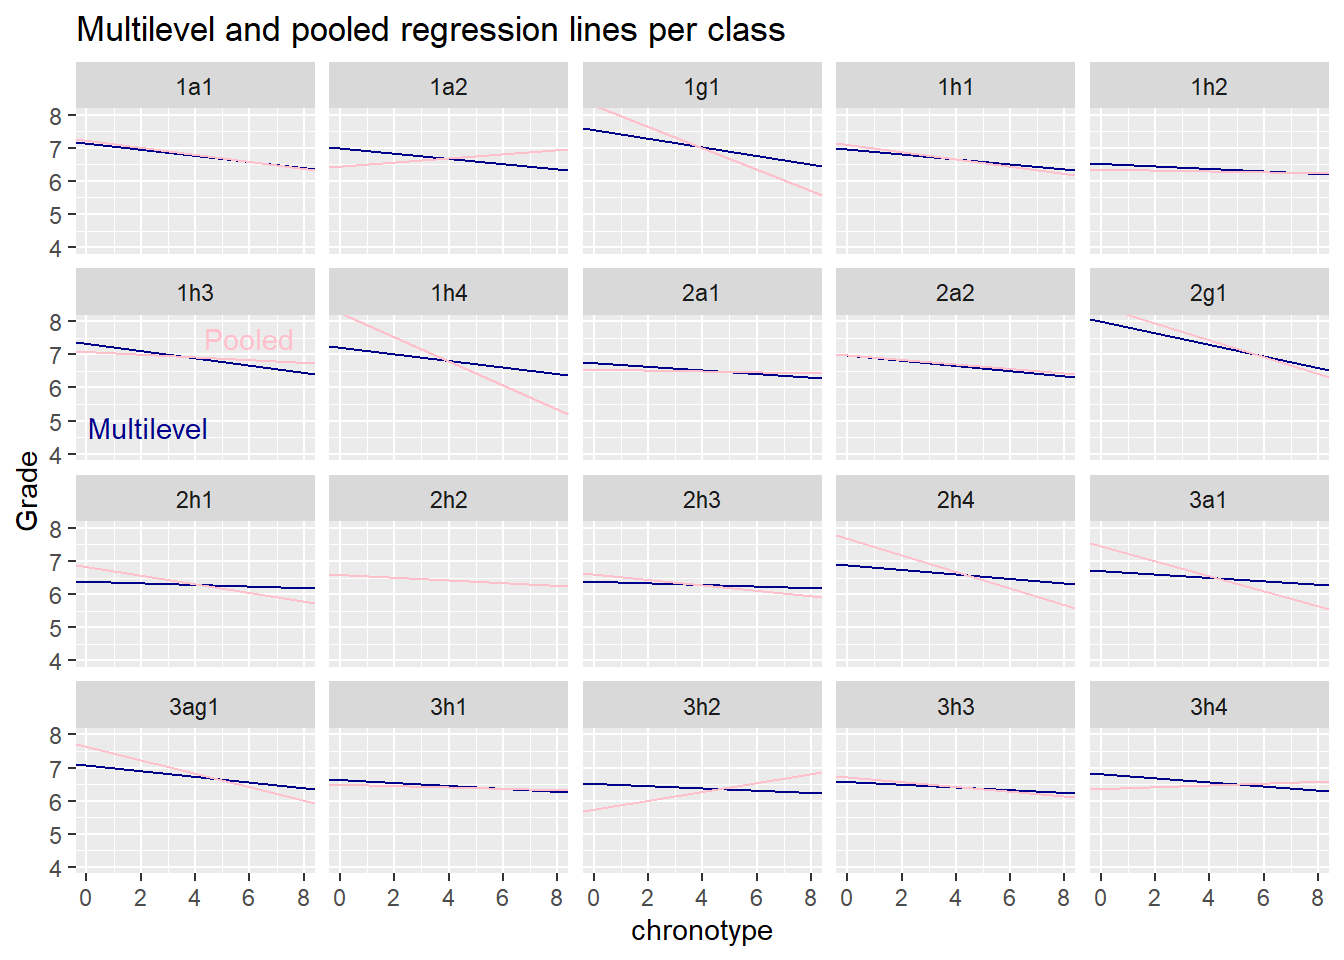
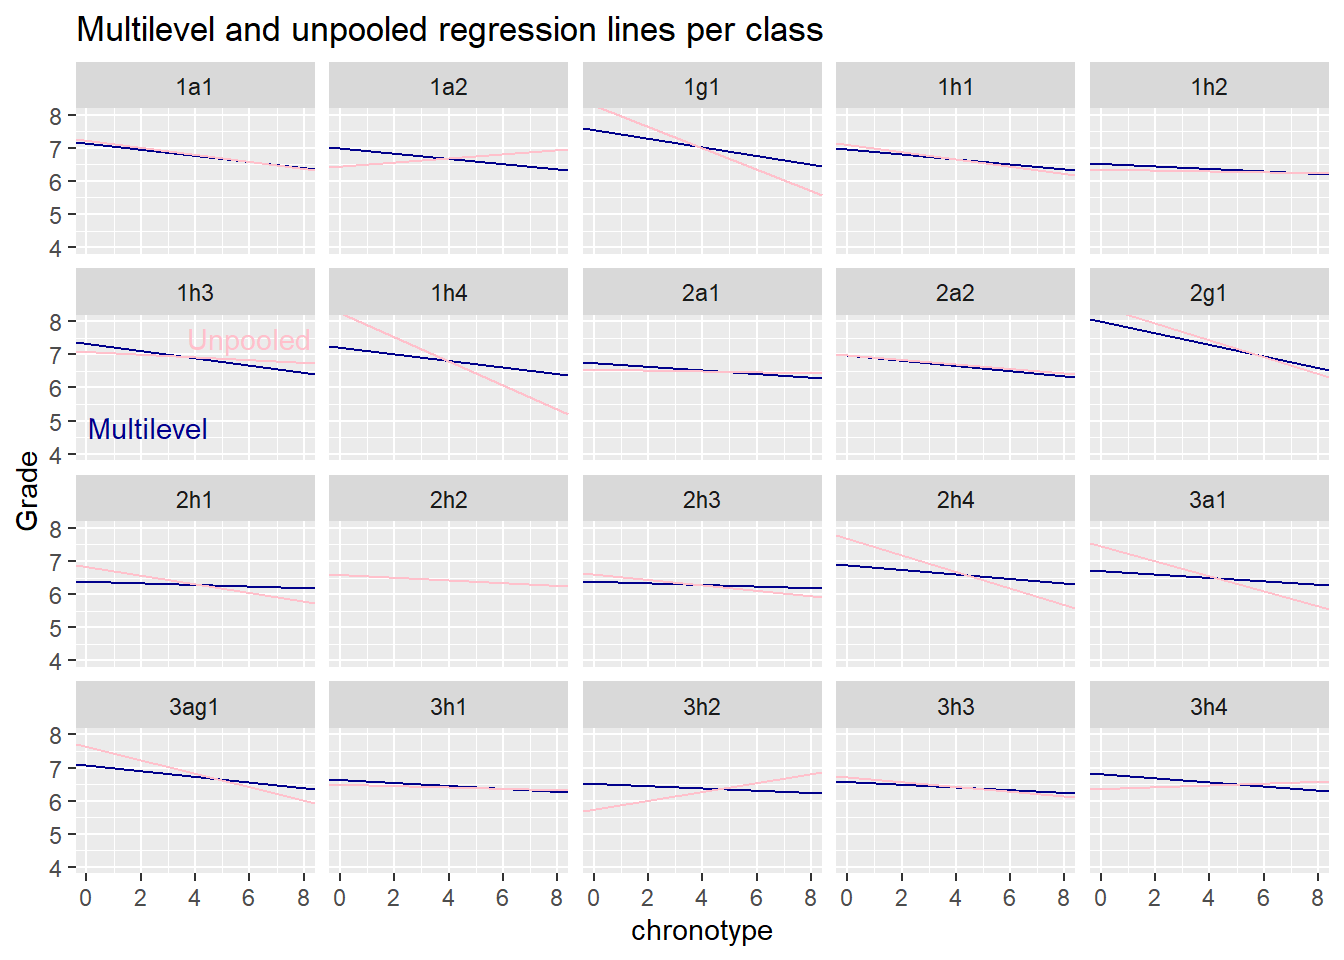
Chronotype # 3 Corrected Pooled -> unpooled

Changed region(s): [[0.2188, 0.0, 0.625, 0.0625], [0.125, 0.3438, 0.25, 0.375]]

diff --git a/content/post/2021-06-07-do-schools-discriminate-against-night-owls-inference-on-clustered-data-part-3/index.en.html b/content/post/2021-06-07-do-schools-discriminate-against-night-owls-inference-on-clustered-data-part-3/index.en.html
@@ -505,18 +505,18 @@ p1</code></pre>
 p2</code></pre>
 <p><img src="{{< blogdown/postref >}}index.en_files/figure-html/unnamed-chunk-24-1.png" width="672" /></p>
 <p>But the instructive point of the first, faceted diagram is that all the slopes are significantly different from zero (since they are black) even though they are hugging the horizontal line at 0. In other words, we have so many observations that the confidence interval is tiny, so as to be invisible.</p>
-<p>This raises the question of how much shrinkage takes place in the multilevel model. Multilevel regression tries to find the sweet spot between pooled and unpooled regression. If there are very few observations per group, then the estimates inside the groups will be very similar to the estimates for the entire population. On the other hand, if there are a lot of observations in the groups, then the grand parameters will have a hard time pulling group parameters towards them. The latter may be the case here. Do does multilevel regression even make a difference here, given the huge number of observations?</p>
+<p>This raises the question of how much shrinkage takes place in the multilevel model. Multilevel regression tries to find the sweet spot between pooled and unpooled regression. If there are very few observations per group, then the estimates inside the groups will be very similar to the estimates for the entire population. On the other hand, if there are a lot of observations in the groups, then the grand parameters will have a hard time pulling group parameters towards them. The latter may be the case here. Do does multilevel regression even make a difference here, given the large number of observations?</p>
 <p>To that end we first estimate the regression lines separately for every class. We then pull the estimates of the multilevel model out of the lme4 object and add the relevant fixed and random parts together to get the multilevel estimates for the regression line per group. We won’t show uncertainty estimates here, because what we care about here is the amount of pull towards the unpooled estimates. So let’s see what happens.</p>
-<pre class="r"><code># CREATE DF OF POOLED REGRESSION COEFS
+<pre class="r"><code># CREATE DF OF UNPOOLED REGRESSION COEFS
 
 #function of the model
 MSF_model &lt;- function(df) {
   lm(Grade ~ 1 + MSFsc, data = df)
 }
 # loop over the groups
-pooled_coefs &lt;- list()
+unpooled_coefs &lt;- list()
 for(i in seq_along(levels(a.out$imputations[[1]]$Class))){
-  pooled_coefs[[i]] &lt;- a.out$imputations[[1]] %&gt;% 
+  unpooled_coefs[[i]] &lt;- a.out$imputations[[1]] %&gt;% 
     filter(Class %in% c(levels(Class)[i])) %&gt;% 
     MSF_model %&gt;% 
     tidy %&gt;% 
@@ -526,7 +526,7 @@ for(i in seq_along(levels(a.out$imputations[[1]]$Class))){
 # pull the class names
 classes &lt;- scores %&gt;% pull(Class) %&gt;% levels()
 # stuff everything into a df
-pooled_coefs_df &lt;- map_dfr(pooled_coefs,`[`, c(&quot;term&quot;, &quot;estimate&quot;)) %&gt;% 
+unpooled_coefs_df &lt;- map_dfr(unpooled_coefs,`[`, c(&quot;term&quot;, &quot;estimate&quot;)) %&gt;% 
   group_by(term) %&gt;%
   mutate(row = row_number()) %&gt;%
   tidyr::pivot_wider(names_from = term, values_from = estimate) %&gt;%
@@ -557,7 +557,7 @@ dat_text &lt;- data.frame(
   classes   = &quot;1h3&quot;
 )
 dat_text2 &lt;- data.frame(
-  label = &quot;Pooled&quot;,
+  label = &quot;Unpooled&quot;,
   classes   = &quot;1h3&quot;
 )
 # the actual plot
@@ -568,12 +568,12 @@ dat_text2 &lt;- data.frame(
     slope=multilevel_slopes,
     intercept=multilevel_intercepts),
     color=&quot;darkblue&quot;) +
-  geom_abline(data=pooled_coefs_df,aes(
+  geom_abline(data=unpooled_coefs_df,aes(
       slope=MSFsc,
       intercept=`(Intercept)`), color=&quot;pink&quot;) +
     facet_wrap(vars(classes)) +
     labs(x=&quot;chronotype&quot;, y=&quot;Grade&quot;) +
-    ggtitle(&quot;Multilevel and pooled regression lines per class&quot;) +
+    ggtitle(&quot;Multilevel and unpooled regression lines per class&quot;) +
       geom_text(
       data    = dat_text,
       color = &quot;darkblue&quot;,
